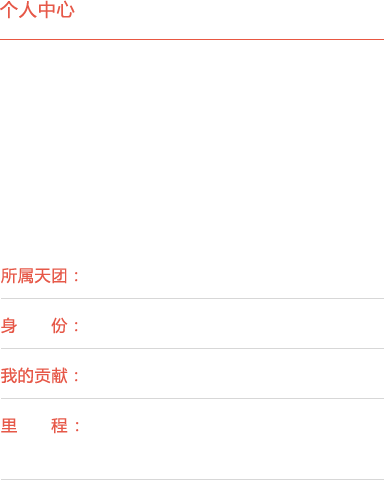
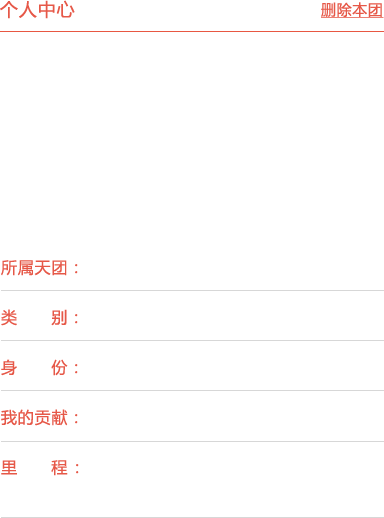
123123

diff --git a/static/pc/css/style.css b/static/pc/css/style.css
@@ -111,8 +111,10 @@ body{ background:#fff;}
 		.ny_nav ul li.li4 a.cur,.ny_nav ul li.li4 a:hover{ background-position:-372px -23px;}
 .ny_content{width:1360px; margin:0 auto}	
 	.ny_conleft{ float:left; width:440px; height:1020px; background:#f1f1f1; margin:0 20px 0 0;}
-		.ny_leftinfo{ width:384px; height:440px; padding:40px 0 0 0; margin:28px; background:url(../images/ny_leftinfo.png) top center no-repeat;}
-			.ny_leftinfo .ny_admininfo{ height:180px; margin:22px 0; width:384px;}
+		.ny_leftinfo{ width:384px; height:518px; padding:0 0 0 0; margin:28px; background:url(../images/ny_leftinfo.png) top center no-repeat;}
+			.ny_leftinfo .ny_admintitle{ width:384px; height:20px;}
+			.ny_leftinfo .ny_admintitle a{ float:right; width:65px; height:20px; display:inline-block;}
+			.ny_leftinfo .ny_admininfo{ height:180px; width:384px; padding:30px 0 27px;}
 			.ny_leftinfo .ny_admininfo img{ float:left; width:180px; height:180px; border:#fafafa 2px solid; margin:0 22px 0 0;}
 			.ny_leftinfo .ny_admininfo h2{ float:left; font-size:18px; color:#848484; font-weight:400;}
 			.ny_leftinfo ul.ulinfo{ padding:0 0 0 90px;}
@@ -132,8 +134,10 @@ body{ background:#fff;}
 		.ny_leftqt ul li a{ display:inline-block; text-decoration:none; text-align:center; }
 		.ny_leftqt ul li a img{ width:50px; height:50px; border:none;}
 		.ny_leftqt ul li a div{ width:80px; height:30px; line-height:30px;color:#848484; font-size:14px; font-weight:400; white-space: nowrap;text-overflow:ellipsis; overflow:hidden;}
+		
+	.tab_phb{ width:900px; margin:0 auto}
 	.ny_conright{ float:left; width:900px;}
-		.ny_conright .tab_phb{}
+		.ny_conright .tab_phb{ width:900px; margin:0 auto}
 		.ny_conright .tab_phb .tab_phbtitle{ border-bottom:#bfcf3b 1px solid; height:68px;}
 		.ny_conright .tab_phb .tab_phbtitle ul li{ float:left; margin:20px 40px 0 0; width:93px; height:40px;}
 		.ny_conright .tab_phb .tab_phbtitle ul li a{ display:inline-block; width:93px; height:40px; cursor:pointer; background:url(../images/tab_phb.png) no-repeat;}

diff --git a/application/views/rank.php b/application/views/rank.php
@@ -54,6 +54,9 @@
 <div class="ny_content">
 <div class="ny_conleft">
     <div class="ny_leftinfo">
+
+        <div class="ny_admintitle"><a href="#" title="删除本团"></a></div>
+
         <div class="ny_admininfo">
             <a href="#"><img src="<?=$user_result['avatar_large']?>"/></a>
             <h2><?=$user_result['uname']?></h2>
@@ -61,6 +64,7 @@
         <div class="clear"></div>
         <ul class="ulinfo">
             <li><?=$user_result['tname']?></li>
+            <li><?php if($user_result['ttype'] == 1):?>美食<?php elseif($user_result['ttype'] == 2):?>购物<?php elseif($user_result['ttype'] == 3):?>休闲<?php endif; ?>团</li>
             <li>
                 <?php if($user_result['utype'] == 1):?>
                     团长
